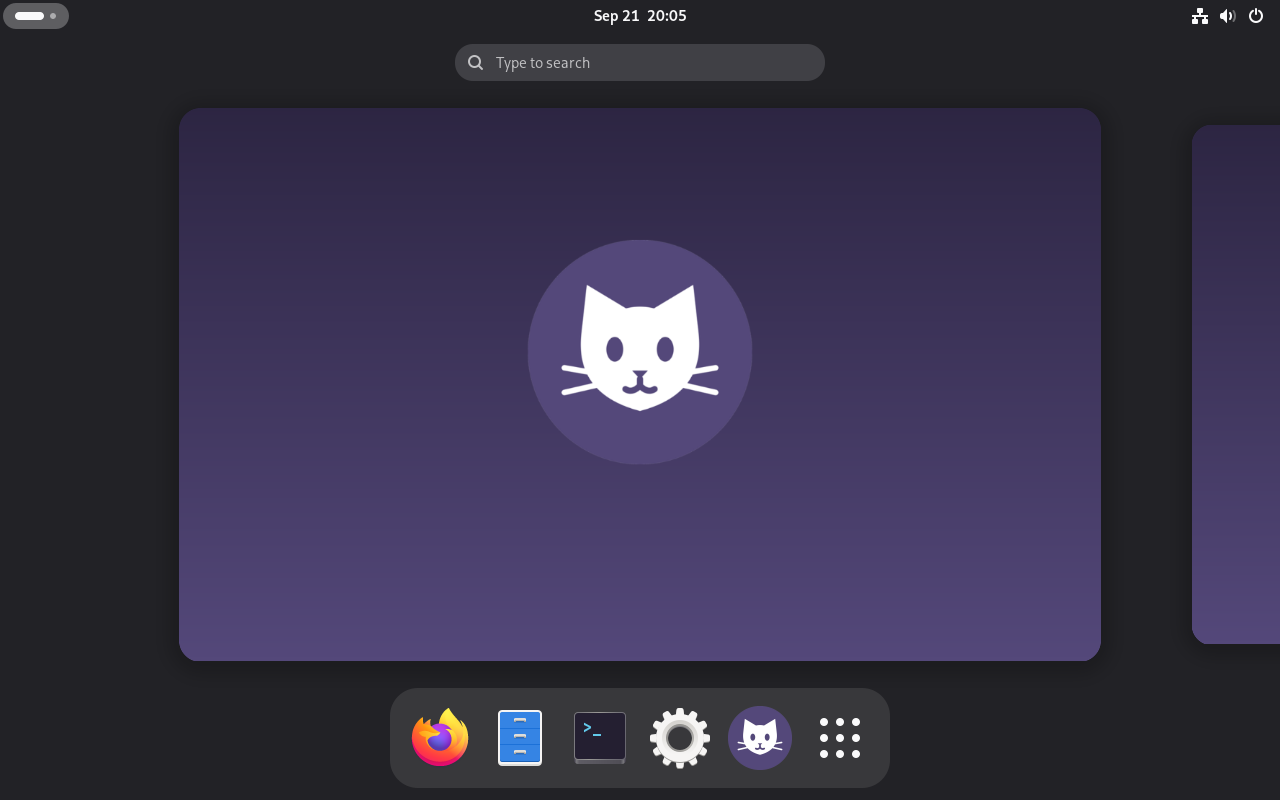
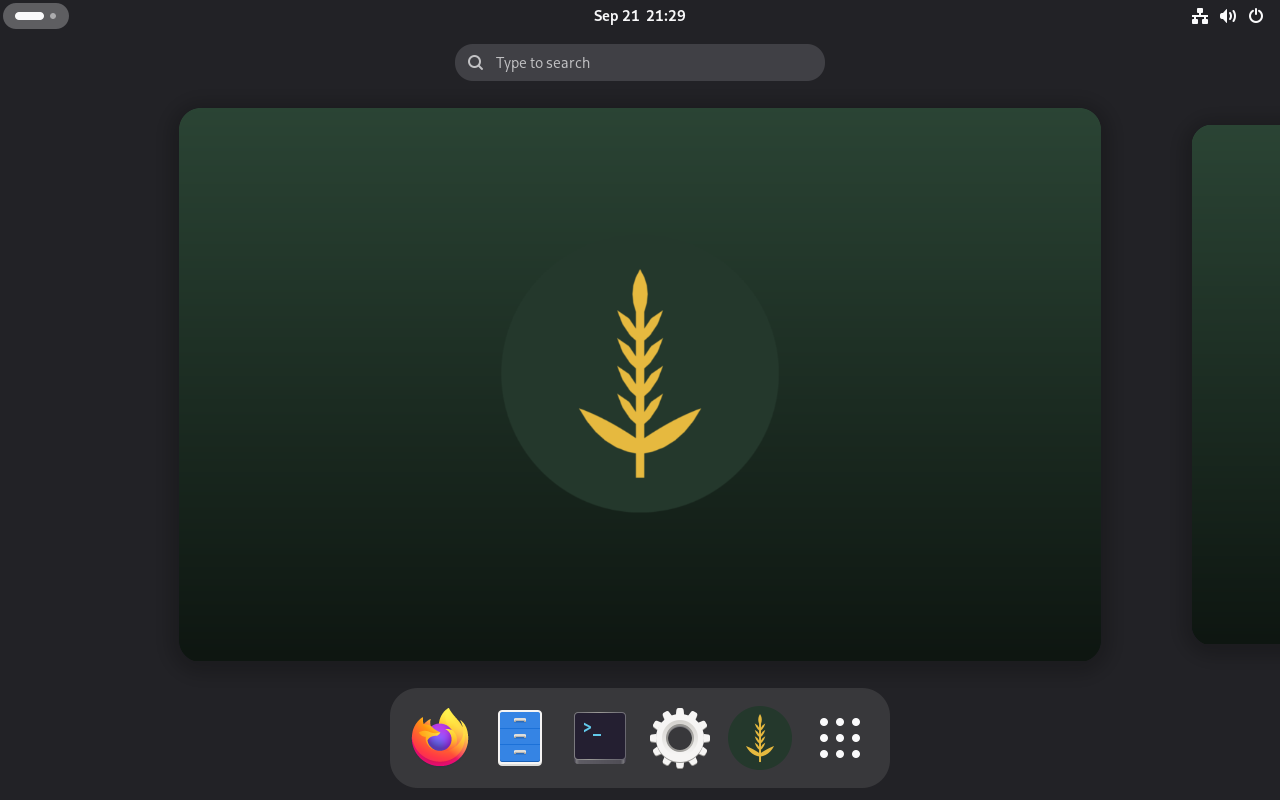
1.0: keep GDM's dependencies out of the closure (image back under 2 GiB), refresh checksums

diff --git a/website/index.html b/website/index.html
@@ -8,17 +8,17 @@
 <link rel="icon" type="image/svg+xml" href="logo.svg">
 <style>
 :root{
-  --bg:#ffffff; --bg2:#f7f5f4; --panel:#ffffff; --border:#e6dfdc; --text:#201a1a; --muted:#5f5656;
-  --brand:#8f1d21; --brand2:#a4232a; --accent:#a4232a;
-  --code-bg:#f3eeed; --code-text:#3a2426; --term-bg:#1b1414; --term-text:#e9e6f5; --term-dim:#8d86a8; --term-ok:#8ee3a7;
-  --warn-bg:#fff6e0; --warn-border:#e8c766; --warn-text:#5a4300; --shadow:0 10px 30px rgba(40,20,20,.12);
+  --bg:#faf8f2; --bg2:#f1eddf; --panel:#ffffff; --border:#ddd6bf; --text:#1d2a21; --muted:#56635a;
+  --brand:#2f4a37; --brand2:#3d6b4b; --accent:#c9971c;
+  --code-bg:#eee9d8; --code-text:#2b3a2f; --term-bg:#0e1510; --term-text:#e6efe3; --term-dim:#7f9284; --term-ok:#e6b93f;
+  --warn-bg:#fbf1d3; --warn-border:#d9b44a; --warn-text:#5a4300; --shadow:0 10px 30px rgba(30,50,35,.14);
   color-scheme:light;
 }
 @media (prefers-color-scheme:dark){
   :root{
-    --bg:#151212; --bg2:#1c1818; --panel:#221d1d; --border:#3a3232; --text:#ece9f7; --muted:#a49ebc;
-    --brand:#6f1a1e; --brand2:#e07a7f; --accent:#e07a7f; --code-bg:#2a2323; --code-text:#efe3e3;
-    --warn-bg:#2f2810; --warn-border:#7a641d; --warn-text:#f0d98a; --shadow:0 10px 30px rgba(0,0,0,.4);
+    --bg:#0f1611; --bg2:#141d17; --panel:#19241c; --border:#2c3d31; --text:#e9efe6; --muted:#9bad9f;
+    --brand:#2f4a37; --brand2:#8cc79a; --accent:#e6b93f; --code-bg:#1f2d23; --code-text:#e2ece0;
+    --warn-bg:#2b2410; --warn-border:#7a641d; --warn-text:#f0d98a; --shadow:0 10px 30px rgba(0,0,0,.45);
     color-scheme:dark;
   }
 }
@@ -45,7 +45,7 @@ nav a{color:var(--muted);padding:.4rem .7rem;border-radius:8px;font-size:.95rem;
 nav a:hover{background:var(--bg2);color:var(--text);text-decoration:none}
 @media (max-width:760px){nav ul li:not(:last-child){display:none}}
 
-.hero{padding-block:4.5rem 3rem;background:radial-gradient(1200px 500px at 70% -10%,color-mix(in srgb,var(--accent) 26%,transparent),transparent 70%)}
+.hero{padding-block:4.5rem 3rem;background:radial-gradient(1100px 480px at 75% -10%,color-mix(in srgb,var(--accent) 24%,transparent),transparent 70%),linear-gradient(180deg,color-mix(in srgb,var(--brand) 6%,transparent),transparent)}
 .hero .grid{display:grid;grid-template-columns:1.05fr 1fr;gap:3rem;align-items:center}
 .eyebrow{display:inline-block;color:var(--brand2);font-weight:700;letter-spacing:.1em;text-transform:uppercase;font-size:.78rem;margin-bottom:.8rem}
 .hero h1{font-size:clamp(2.2rem,5.2vw,3.6rem);line-height:1.06;margin:0 0 1.1rem;letter-spacing:-.02em}
@@ -55,6 +55,7 @@ nav a:hover{background:var(--bg2);color:var(--text);text-decoration:none}
 .btn{display:inline-block;padding:.8rem 1.4rem;border-radius:10px;font-weight:650;border:2px solid var(--brand2);color:var(--brand2);margin:0 .6rem .6rem 0}
 .btn:hover{text-decoration:none;background:var(--bg2)}
 .btn.primary{background:var(--brand);border-color:var(--brand);color:#fff}
+.eyebrow{color:var(--accent)}
 .btn.primary:hover{background:var(--brand2);border-color:var(--brand2)}
 .facts{display:flex;flex-wrap:wrap;gap:.5rem 1.4rem;margin-top:1.2rem;color:var(--muted);font-size:.92rem}
 .facts b{color:var(--text)}
@@ -201,13 +202,13 @@ footer .wrap{display:flex;justify-content:space-between;gap:1rem;flex-wrap:wrap}
       <h3>GNOME edition</h3>
       <p>The full desktop, the graphical installer and Firefox. 1.4&nbsp;GB, 4&nbsp;GB of RAM recommended.</p>
       <p><a class="btn primary" href="https://github.com/tortr-rs/systemLinux/releases/download/v1.0/systemlinux-v1.0-gnome.iso">systemlinux-v1.0-gnome.iso</a></p>
-      <p><strong>SHA-256</strong><br><code class="hash">394ea44da732b7997d577b5599e1d34c3c0049d4d2f19dd8a5f689c5410899a5</code></p>
+      <p><strong>SHA-256</strong><br><code class="hash">f9dc7a530b8d7b2ce4114482af104a7d74e189a20d1b6d55f6c0b99bdd2060dd</code></p>
     </div>
     <div class="panel">
       <h3>Minimal edition</h3>
       <p>Boots to a root shell on the console: a base to build on. 1.1&nbsp;GB, about 2&nbsp;GB of RAM.</p>
       <p><a class="btn primary" href="https://github.com/tortr-rs/systemLinux/releases/download/v1.0/systemlinux-v1.0-minimal.iso">systemlinux-v1.0-minimal.iso</a></p>
-      <p><strong>SHA-256</strong><br><code class="hash">6c0926f2b7f6696afde4e7ed85c47e0fa03fd1e4dceb4a204203ae45762a3954</code></p>
+      <p><strong>SHA-256</strong><br><code class="hash">02434be23a9b6ae3e550f0e826c02a4d232cbd7dafe55db5271eda4e5797c4d1</code></p>
     </div>
   </div>
   <p style="margin-top:1.2rem">Check your download with <code>sha256sum systemlinux-v1.0-*.iso</code>. Older versions are on the <a href="https://github.com/tortr-rs/systemLinux/releases">releases page</a>; the source is on <a href="https://github.com/tortr-rs/systemLinux">GitHub</a>.</p>
@@ -239,7 +240,7 @@ footer .wrap{display:flex;justify-content:space-between;gap:1rem;flex-wrap:wrap}
         <ul><li><strong>systemLinux</strong>: the normal live session.</li><li><strong>copy to RAM</strong>: loads the whole system into memory so you can remove the stick.</li><li><strong>debug shell</strong>: shows every message and stops just before the real system starts. Use it if the normal entry does not work.</li></ul>
         <p>The live session signs in as <code>live</code> and opens GNOME with Firefox, Files and Terminal. Connect to Wi-Fi from the top bar. Nothing is written to your disks until you run the installer.</p></div>
       <div class="chapter" id="hb-3"><h3>3. Install to disk</h3>
-        <p>Open <strong>Install systemLinux</strong> from the dock (the cat icon). It walks through six pages:</p>
+        <p>Open <strong>Install systemLinux</strong> from the dock (the wheat icon). It walks through six pages:</p>
         <ol><li><strong>Welcome</strong>: what is about to happen.</li><li><strong>Disk</strong>: pick the disk to erase.</li><li><strong>Account</strong>: computer name, your name, user name and password, and whether to sign in automatically. The same password is used for <code>root</code>.</li><li><strong>Region</strong>: time zone and keyboard layout.</li><li><strong>Summary</strong>: review everything. Nothing has changed yet; <em>Install</em> starts the work.</li><li><strong>Progress</strong>: partitions the disk, copies the system, creates your account and installs the boot loader.</li></ol>
         <p>The disk gets a 512&nbsp;MB EFI partition and one ext4 partition holding the system image, the boot menu and your files. When it says <em>Done</em>, restart and remove the stick.</p></div>
       <div class="chapter" id="hb-4"><h3>4. First boot</h3>
